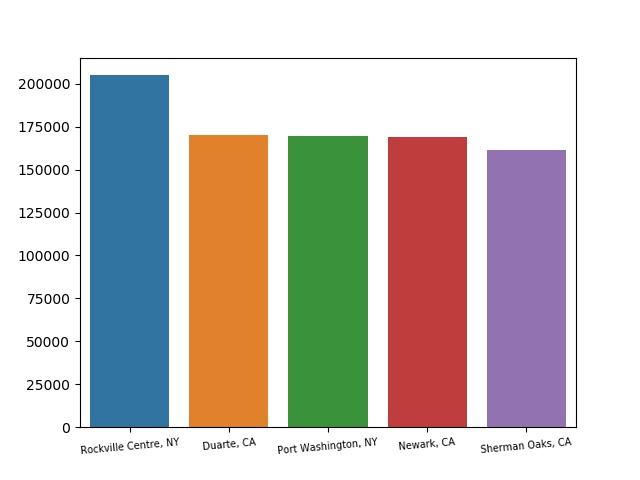
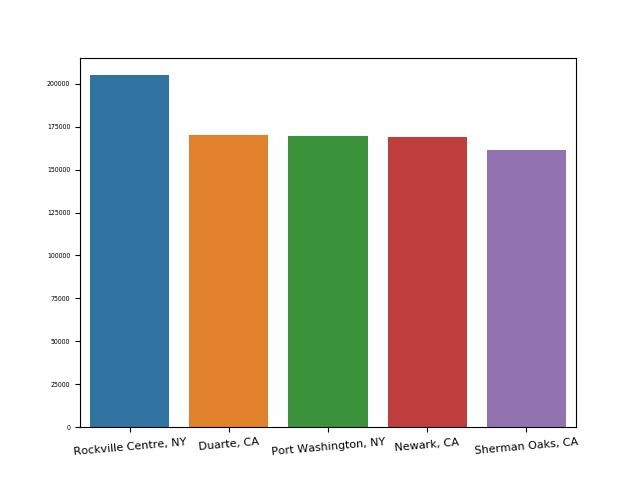
fix: debug on GUI code

diff --git a/scripts/jobindustry_GUI.py b/scripts/jobindustry_GUI.py
@@ -101,9 +101,6 @@ class jobindustry:
             ]
 
             table_.to_csv("./data/Labor_statistics.csv", index=False, header=header)
-
-        # print(table_)
-        # print(df)
         return df, table_
 
     # Process job information
@@ -194,10 +191,11 @@ class jobindustry:
         return new_table
 
     # Create the "Industry Tendency" table
-    @staticmethod
-    def nt_summary(root, new_table):
-        label5 = tk.Label(root, text="Industry Tendency")
-        label5.place(relx=0.5, rely=0.6)
+    def nt_summary(self, new_table):
+        label5 = tk.Label(
+            self.root, text="Industry Tendency", font=("Times New Roman", 14, "bold")
+        )
+        label5.place(relx=0.5, rely=0.64)
         nt_summary = new_table.groupby("Industry_title").mean()[
             [
                 "Projected 2029 Employment_y",
@@ -226,20 +224,20 @@ class jobindustry:
             "Employment % Change",
         )
         tree = ttk.Treeview(
-            root, height=10, show="headings", selectmode="browse", columns=columns
+            self.root, height=9, show="headings", selectmode="browse", columns=columns
         )
 
-        tree.column(columns[0], width=100)
-        tree.column(columns[1], width=50)
-        tree.column(columns[2], width=50)
-        tree.column(columns[3], width=50)
-        tree.column(columns[4], width=50)
-        tree.column(columns[5], width=50)
+        tree.column(columns[0], width=140)
+        tree.column(columns[1], width=42)
+        tree.column(columns[2], width=42)
+        tree.column(columns[3], width=42)
+        tree.column(columns[4], width=42)
+        tree.column(columns[5], width=42)
 
         for i in columns:
             tree.heading(i, text=i)
 
-        tree.place(relx=0.5, rely=0.63)
+        tree.place(relx=0.5, rely=0.67)
         # self.delButton(tree)
 
         i = 0
@@ -257,7 +255,7 @@ class jobindustry:
                     round(data[4], 1),
                 ),
             )
-            i = i + 1
+            i += 1
         return nt_summary
 
     # Search for job information that match the input key word
@@ -266,9 +264,12 @@ class jobindustry:
         return phrase_df
 
     # Create the bar plot
-    # @staticmethod
     def barplot_loc_sal(self, df):
-        label3 = tk.Label(self.root, text="Top 5 Location/Salary Estimate")
+        label3 = tk.Label(
+            self.root,
+            text="Top 5 Location/Salary Estimate",
+            font=("Times New Roman", 14, "bold"),
+        )
         label3.place(relx=0.02, rely=0.7)
         plot_df = (
             (
@@ -283,7 +284,8 @@ class jobindustry:
         )
         # figure = plt.figure(figsize=(5, 2.5))
         sns.barplot(x=plot_df.index, y=plot_df)
-        plt.xticks(rotation=5, fontsize=7)
+        plt.xticks(rotation=5, fontsize=8)
+        plt.yticks(fontsize=4.5)
         plt.xlabel("")
         plt.savefig("./demo/bar.jpg")
 
@@ -296,14 +298,12 @@ class jobindustry:
         label.image = photo
         label.place(relx=0.02, rely=0.73)
 
-        # canvas = FigureCanvasTkAgg(figure, master=root)
-        # canvas.get_tk_widget().place(x=10, y=460)
-
     # Create the distribution plot
-    # @staticmethod
     def distplot_salary(self, df):
         label2 = tk.Label(
-            self.root, text="Min (Blue) / Max (Red) Salary Estimate Distribution"
+            self.root,
+            text="Min (Blue) / Max (Red) Salary Estimate Distribution",
+            font=("Times New Roman", 14, "bold"),
         )
         label2.place(relx=0.02, rely=0.4)
         figure = plt.figure(figsize=(3.5, 1.5))
@@ -320,7 +320,9 @@ class jobindustry:
 
     # Create the word cloud
     def wordcloud_ngrams(self, df, other_stopwords: list = [], bg_color: str = "white"):
-        label1 = tk.Label(self.root, text="WordCloud")
+        label1 = tk.Label(
+            self.root, text="WordCloud", font=("Times New Roman", 14, "bold")
+        )
         label1.place(relx=0.02, rely=0.1)
 
         eng_stopwords = stopwords.words("english") + other_stopwords
@@ -361,5 +363,5 @@ class jobindustry:
         label = tk.Label(self.root, image=photo)
         # In case the image is recycled
         label.image = photo
-        label.place(relx=0.02, rely=0.13)
+        label.place(relx=0.02, rely=0.15)
 

diff --git a/scripts/Course_GUI.py b/scripts/Course_GUI.py
@@ -35,22 +35,24 @@ class course:
 
     # Get the search result and create the "Course" table
     def selectCourse(self, result):
-        label4 = tk.Label(self.root, text="Course")
+        label4 = tk.Label(
+            self.root, text="Course", font=("Times New Roman", 14, "bold")
+        )
         label4.place(relx=0.5, rely=0.1)
 
         var = tk.StringVar()
         textLabel = tk.Label(self.root, textvariable=var, fg="red")
-        textLabel.place(relx=0.65, rely=0.1)
+        textLabel.place(relx=0.62, rely=0.1)
 
         columns = ("Department", "Title", "Number", "Unit")
         tree = ttk.Treeview(
-            self.root, height=13, show="headings", selectmode="browse", columns=columns
+            self.root, height=17, show="headings", selectmode="browse", columns=columns
         )
 
-        tree.column(columns[0], width=125)
-        tree.column(columns[1], width=125)
-        tree.column(columns[2], width=50)
-        tree.column(columns[3], width=50)
+        tree.column(columns[0], width=75)
+        tree.column(columns[1], width=175)
+        tree.column(columns[2], width=55)
+        tree.column(columns[3], width=42)
 
         for i in columns:
             tree.heading(i, text=i)

diff --git a/scripts/main.py b/scripts/main.py
@@ -21,10 +21,14 @@ def searchConduct(root, key_word):
         "religion",
         "attorney",
         "status",
+        "employer",
         "employment",
         "opportunities",
+        "opportunity",
         "consideration",
-        "equal",
+        "origin",
+        "year",
+        "years" "equal",
     ]
     # Declare a jobindustry object
     j = jobindustry(p1, key, root)
@@ -44,7 +48,7 @@ def searchConduct(root, key_word):
     # Display the course search result
     c.selectCourse(result)
     # Display related industry prospect
-    j.nt_summary(root, phrase_df)
+    j.nt_summary(phrase_df)
 
 
 # %% main window layout
